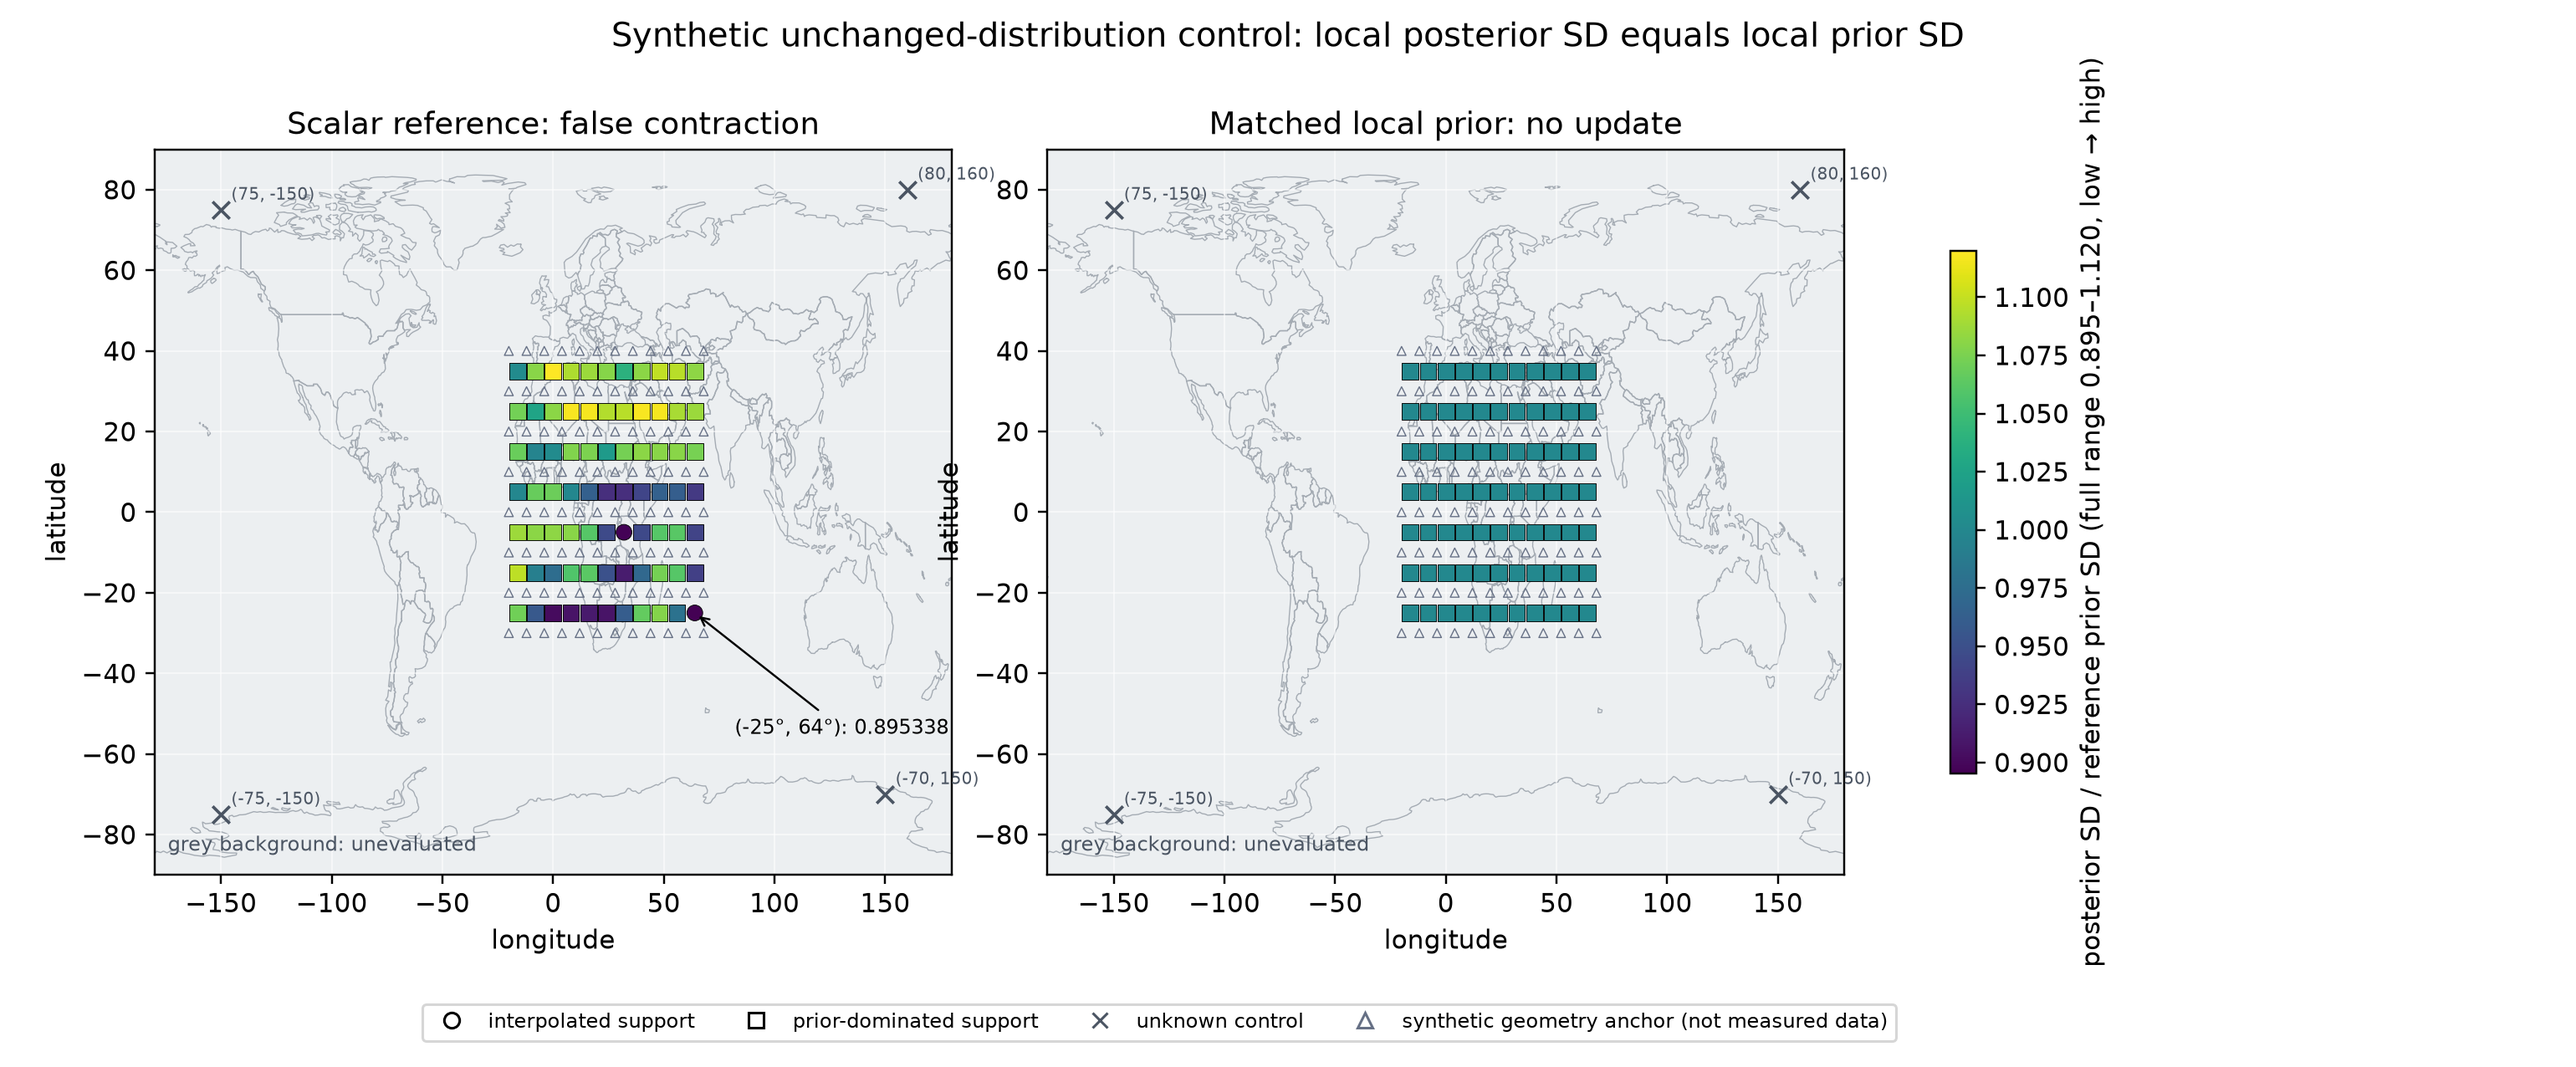
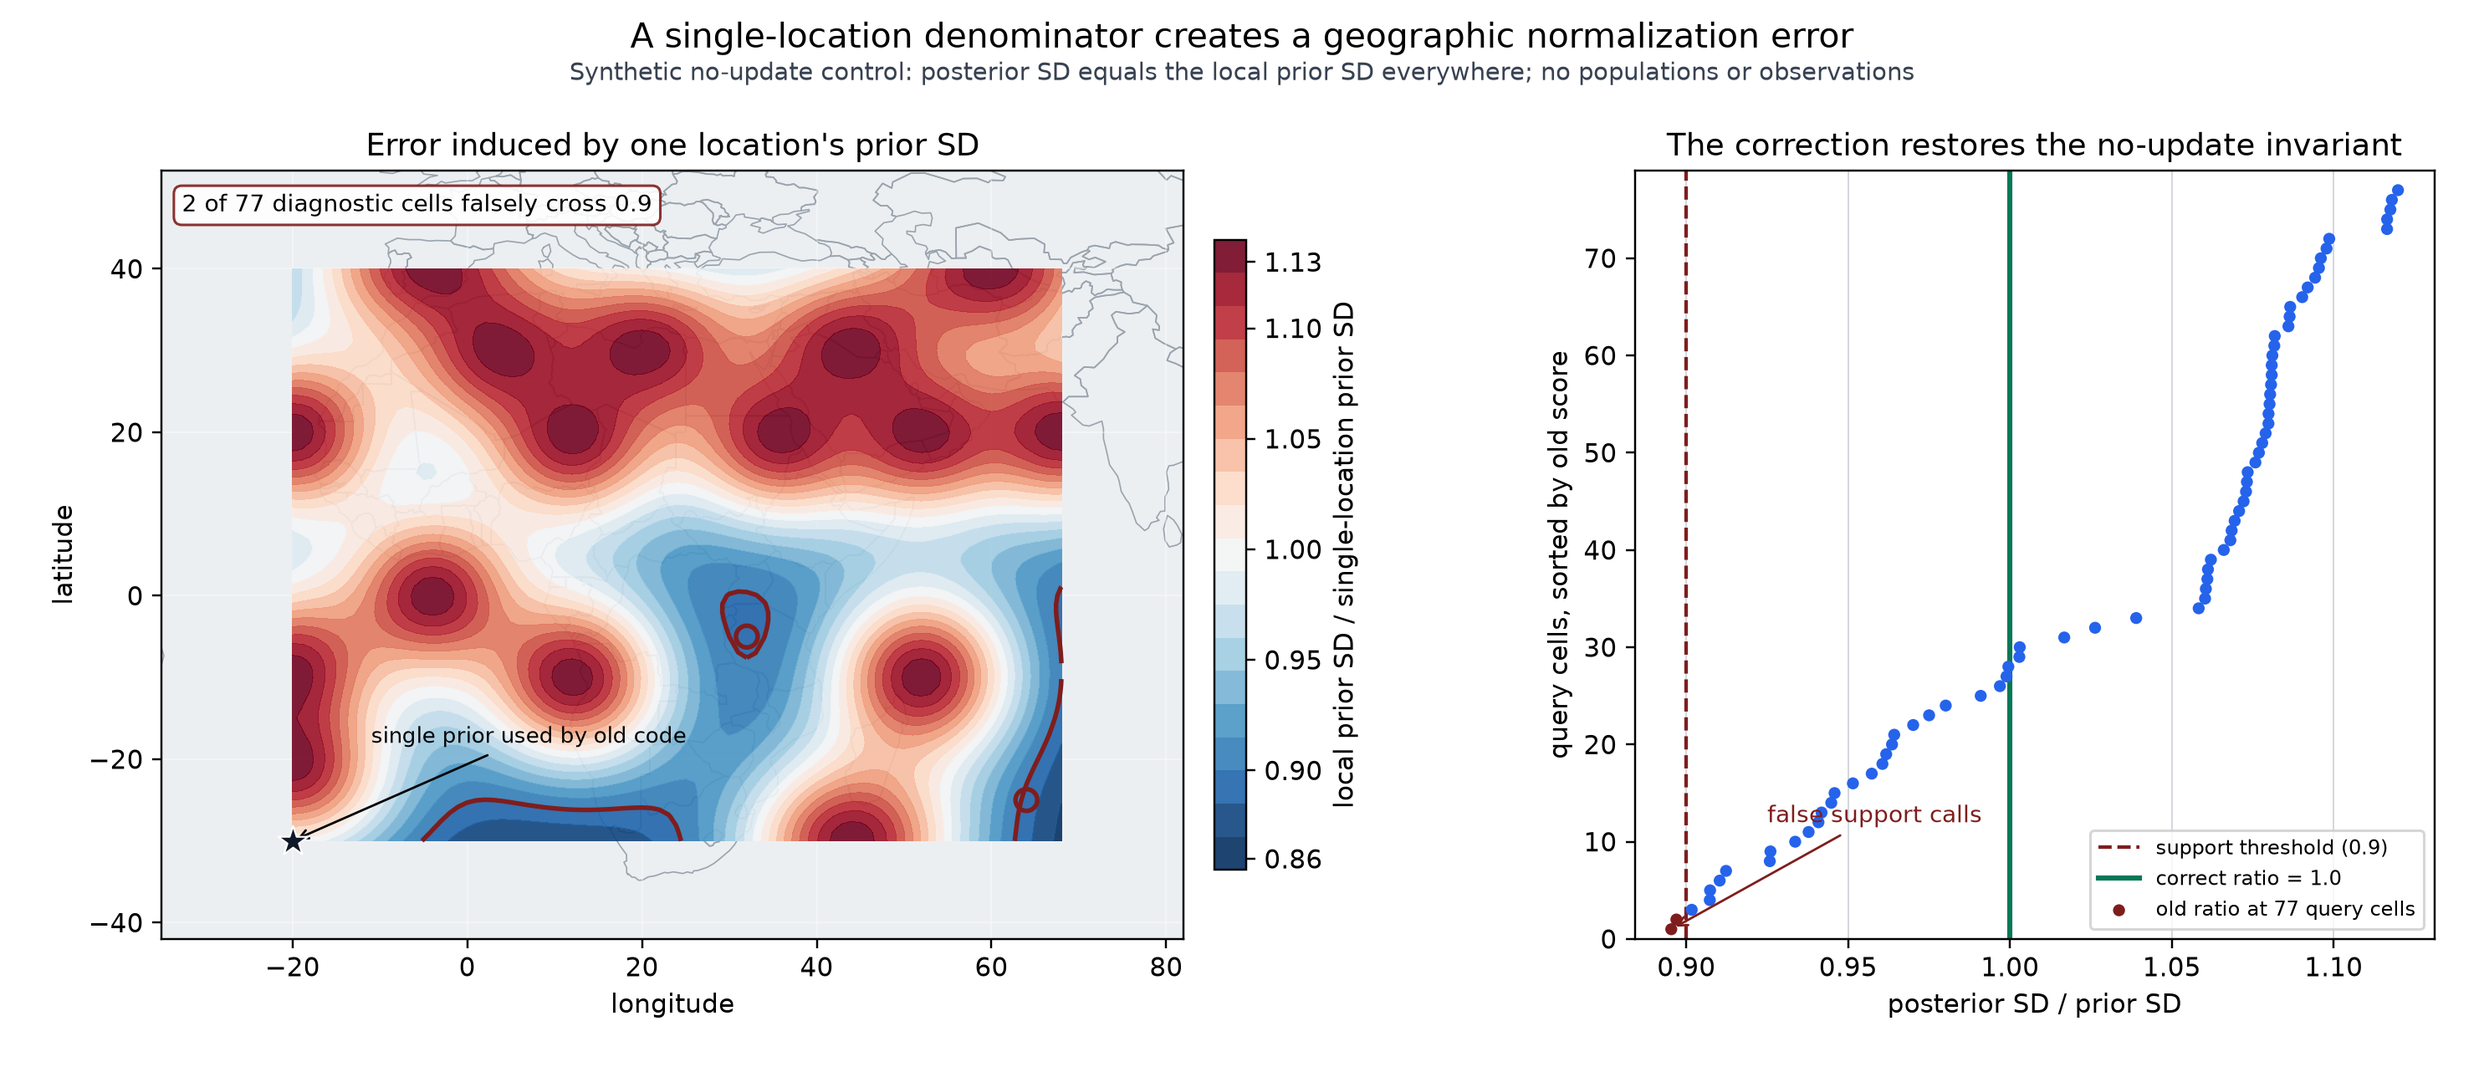
fix: clarify geographic normalization figure (closes #266)

diff --git a/scripts/plot_prior_normalization.py b/scripts/plot_prior_normalization.py
@@ -15,7 +15,7 @@ import matplotlib
 matplotlib.use("Agg")
 import matplotlib.pyplot as plt  # noqa: E402
 import numpy as np  # noqa: E402
-from matplotlib.lines import Line2D  # noqa: E402
+from matplotlib.colors import TwoSlopeNorm  # noqa: E402
 
 from genomeos.surfaces.fit import (  # noqa: E402
     EARTH_RADIUS_KM,
@@ -73,21 +73,23 @@ def _haversine_to_grid(
 
 def compute_counterexample() -> dict[str, np.ndarray | float]:
     """Return the fully authored fixed-geometry no-update counterexample from issue #266."""
-    anchor_lat = np.array(
-        [lat for lat in range(-30, 41, 10) for _ in range(-20, 69, 8)], dtype=float
+    anchor_lon_grid, anchor_lat_grid = np.meshgrid(
+        np.arange(-20.0, 69.0, 8.0), np.arange(-30.0, 41.0, 10.0)
     )
-    anchor_lon = np.array(
-        [lon for _ in range(-30, 41, 10) for lon in range(-20, 69, 8)], dtype=float
-    )
+    anchor_lat, anchor_lon = anchor_lat_grid.ravel(), anchor_lon_grid.ravel()
     inducing = h3_inducing_points(anchor_lat, anchor_lon, 16, reach_km=1500.0)
-    query_lat = np.array(
-        [lat for lat in range(-25, 36, 10) for _ in range(-16, 65, 8)], dtype=float
+    query_lon_grid, query_lat_grid = np.meshgrid(
+        np.arange(-16.0, 65.0, 8.0), np.arange(-25.0, 36.0, 10.0)
     )
-    query_lon = np.array(
-        [lon for _ in range(-25, 36, 10) for lon in range(-16, 65, 8)], dtype=float
-    )
+    query_lat, query_lon = query_lat_grid.ravel(), query_lon_grid.ravel()
     local_sd = _conditional_frequency_sd(inducing, query_lat, query_lon)
     scalar_sd = float(_conditional_frequency_sd(inducing, anchor_lat[:1], anchor_lon[:1])[0])
+    surface_lon, surface_lat = np.meshgrid(
+        np.linspace(-20.0, 68.0, 89), np.linspace(-30.0, 40.0, 71)
+    )
+    surface_ratio = _conditional_frequency_sd(
+        inducing, surface_lat.ravel(), surface_lon.ravel()
+    ).reshape(surface_lat.shape) / scalar_sd
     controls = np.array([[-75.0, -150.0], [-70.0, 150.0], [75.0, -150.0], [80.0, 160.0]])
     control_distance = _haversine_to_grid(
         controls[:, 0], controls[:, 1], anchor_lat, anchor_lon
@@ -101,6 +103,9 @@ def compute_counterexample() -> dict[str, np.ndarray | float]:
         "scalar_sd": scalar_sd,
         "scalar_ratio": local_sd / scalar_sd,
         "local_ratio": local_sd / local_sd,
+        "surface_lat": surface_lat,
+        "surface_lon": surface_lon,
+        "surface_ratio": surface_ratio,
         "controls": controls,
         "control_distance_km": control_distance,
         "control_unknown": control_distance > 2.0 * LENGTHSCALE_KM,
@@ -108,81 +113,94 @@ def compute_counterexample() -> dict[str, np.ndarray | float]:
 
 
 def render(out: Path) -> Path:
-    """Render the counterexample as two support maps with a shared low-to-high ratio ramp."""
+    """Map the spatial denominator error and summarize its classification effect."""
     result = compute_counterexample()
     query_lat = result["query_lat"]
     query_lon = result["query_lon"]
-    controls = result["controls"]
-    ratios = (result["scalar_ratio"], result["local_ratio"])
-    titles = ("Scalar reference: false contraction", "Matched local prior: no update")
-    fig, axes = plt.subplots(1, 2, figsize=(14, 5.8))
-    norm = plt.Normalize(
-        min(float(np.min(ratio)) for ratio in ratios),
-        max(float(np.max(ratio)) for ratio in ratios),
+    scalar_ratio = result["scalar_ratio"]
+    false_support = scalar_ratio < SUPPORT_THRESHOLD
+    fig, (map_ax, diagnostic_ax) = plt.subplots(
+        1, 2, figsize=(13.5, 5.8), gridspec_kw={"width_ratios": (1.55, 1.0)}
     )
-    for ax, ratio, title in zip(axes, ratios, titles, strict=True):
-        ax.set_facecolor("#eceff1")
-        draw_countries(ax, color="#a4abb3", linewidth=0.45)
-        prior_dominated = ratio >= SUPPORT_THRESHOLD
-        ax.scatter(
-            query_lon[~prior_dominated], query_lat[~prior_dominated], c=ratio[~prior_dominated],
-            cmap="viridis", norm=norm, s=38, marker="o", edgecolor="black", linewidth=0.3,
-            label="interpolated (<0.9)", zorder=3,
-        )
-        scatter = ax.scatter(
-            query_lon[prior_dominated], query_lat[prior_dominated], c=ratio[prior_dominated],
-            cmap="viridis", norm=norm, s=42, marker="s", edgecolor="black", linewidth=0.3,
-            label="prior dominated (≥0.9)", zorder=3,
-        )
-        ax.scatter(
-            result["anchor_lon"], result["anchor_lat"], marker="^", s=12,
-            facecolor="none", edgecolor="#667085", linewidth=0.45, zorder=2,
-        )
-        ax.scatter(
-            controls[:, 1], controls[:, 0], marker="x", s=45, color="#4b5563",
-            linewidth=1.2, label="unknown (>2ρ)", zorder=4,
-        )
-        for control_lat, control_lon in controls:
-            ax.annotate(
-                f"({control_lat:.0f}, {control_lon:.0f})",
-                (control_lon, control_lat),
-                xytext=(4, 4),
-                textcoords="offset points",
-                fontsize=6.5,
-                color="#4b5563",
-            )
-        ax.set(xlim=(-180, 180), ylim=(-90, 90), xlabel="longitude", ylabel="latitude", title=title)
-        ax.text(-174, -84, "grey background: unevaluated", fontsize=8, color="#4b5563")
-        ax.grid(color="white", linewidth=0.5, alpha=0.7)
-    target = (query_lat == -25) & (query_lon == 64)
-    axes[0].annotate(
-        f"(-25°, 64°): {result['scalar_ratio'][target].item():.6f}",
-        xy=(64, -25), xytext=(82, -55), arrowprops={"arrowstyle": "->", "lw": 0.8}, fontsize=8,
+    norm = TwoSlopeNorm(
+        vmin=float(np.min(result["surface_ratio"])),
+        vcenter=1.0,
+        vmax=float(np.max(result["surface_ratio"])),
     )
-    legend = [
-        Line2D([], [], marker="o", linestyle="none", color="black", markerfacecolor="white",
-               label="interpolated support"),
-        Line2D([], [], marker="s", linestyle="none", color="black", markerfacecolor="white",
-               label="prior-dominated support"),
-        Line2D([], [], marker="x", linestyle="none", color="#4b5563", label="unknown control"),
-        Line2D([], [], marker="^", linestyle="none", color="#667085", markerfacecolor="none",
-               label="synthetic geometry anchor (not measured data)"),
-    ]
-    fig.legend(handles=legend, loc="lower center", bbox_to_anchor=(0.45, 0.015), ncol=4, fontsize=8)
+    map_ax.set_facecolor("#eceff1")
+    draw_countries(map_ax, color="#9aa4af", linewidth=0.55)
+    surface = map_ax.contourf(
+        result["surface_lon"], result["surface_lat"], result["surface_ratio"],
+        levels=24, cmap="RdBu_r", norm=norm, alpha=0.9, zorder=2,
+    )
+    map_ax.contour(
+        result["surface_lon"], result["surface_lat"], result["surface_ratio"],
+        levels=[SUPPORT_THRESHOLD], colors="#7f1d1d", linewidths=1.8, zorder=3,
+    )
+    map_ax.scatter(
+        query_lon[false_support], query_lat[false_support], s=72, facecolor="none",
+        edgecolor="#7f1d1d", linewidth=1.8, zorder=4,
+    )
+    reference_lat = float(result["anchor_lat"][0])
+    reference_lon = float(result["anchor_lon"][0])
+    map_ax.scatter(
+        [reference_lon], [reference_lat], marker="*", s=150, facecolor="#111827",
+        edgecolor="white", linewidth=0.7, zorder=5,
+    )
+    map_ax.annotate(
+        "single prior used by old code",
+        (reference_lon, reference_lat), xytext=(reference_lon + 9, reference_lat + 12),
+        arrowprops={"arrowstyle": "->", "lw": 0.9}, fontsize=8.5,
+    )
+    map_ax.text(
+        0.02, 0.97,
+        f"{int(false_support.sum())} of {len(query_lat)} diagnostic cells falsely cross 0.9",
+        transform=map_ax.transAxes, va="top", fontsize=9,
+        bbox={"boxstyle": "round,pad=0.35", "facecolor": "white", "alpha": 0.9, "edgecolor": "#7f1d1d"},
+    )
+    map_ax.set(
+        xlim=(-35, 82), ylim=(-42, 52), xlabel="longitude", ylabel="latitude",
+        title="Error induced by one location's prior SD",
+    )
+    map_ax.grid(color="white", linewidth=0.5, alpha=0.45)
+    colorbar = fig.colorbar(surface, ax=map_ax, shrink=0.82, pad=0.025)
+    colorbar.set_label("local prior SD / single-location prior SD")
+    colorbar.set_ticks([0.86, 0.9, 0.95, 1.0, 1.05, 1.1, 1.13])
+
+    order = np.argsort(scalar_ratio)
+    ranked = scalar_ratio[order]
+    ranks = np.arange(1, len(ranked) + 1)
+    diagnostic_ax.axvline(
+        SUPPORT_THRESHOLD, color="#7f1d1d", linestyle="--", linewidth=1.4,
+        label="support threshold (0.9)",
+    )
+    diagnostic_ax.axvline(1.0, color="#047857", linewidth=2.0, label="correct ratio = 1.0")
+    diagnostic_ax.scatter(
+        ranked, ranks, c=np.where(ranked < SUPPORT_THRESHOLD, "#7f1d1d", "#2563eb"),
+        s=22, linewidth=0, label="old ratio at 77 query cells", zorder=3,
+    )
+    diagnostic_ax.annotate(
+        "false support calls", xy=(ranked[0], 1), xytext=(0.925, 12),
+        arrowprops={"arrowstyle": "->", "lw": 0.9, "color": "#7f1d1d"},
+        color="#7f1d1d", fontsize=9,
+    )
+    diagnostic_ax.set(
+        xlabel="posterior SD / prior SD", ylabel="query cells, sorted by old score",
+        ylim=(0, len(ranked) + 2), title="The correction restores the no-update invariant",
+    )
+    diagnostic_ax.legend(loc="lower right", fontsize=8, frameon=True)
+    diagnostic_ax.grid(axis="x", color="#d1d5db", linewidth=0.6)
     fig.suptitle(
-        "Synthetic unchanged-distribution control: local posterior SD equals local prior SD",
-        fontsize=13,
+        "A single-location denominator creates a geographic normalization error",
+        fontsize=13.5,
     )
-    fig.subplots_adjust(left=0.06, right=0.88, bottom=0.18, top=0.86, wspace=0.12)
-    fig.colorbar(
-        scatter,
-        ax=axes,
-        shrink=0.72,
-        label=(
-            "posterior SD / reference prior SD "
-            f"(full range {norm.vmin:.3f}–{norm.vmax:.3f}, low → high)"
-        ),
+    fig.text(
+        0.5, 0.925,
+        "Synthetic no-update control: posterior SD equals the local prior SD everywhere; "
+        "no populations or observations",
+        ha="center", fontsize=9.5, color="#374151",
     )
+    fig.subplots_adjust(left=0.065, right=0.98, bottom=0.12, top=0.84, wspace=0.23)
     out = Path(out)
     out.parent.mkdir(parents=True, exist_ok=True)
     fig.savefig(out, dpi=220)

diff --git a/tests/test_plot_prior_normalization.py b/tests/test_plot_prior_normalization.py
@@ -13,6 +13,8 @@ def test_conditional_counterexample_matches_the_authored_numeric_control():
     assert result["scalar_ratio"][target].item() == pytest.approx(0.8953380210217113, abs=1e-14)
     assert result["local_ratio"][target].item() == 1.0
     assert len(result["query_lat"]) == 77
+    assert int((result["scalar_ratio"] < 0.9).sum()) == 2
+    assert result["surface_ratio"].shape == (71, 89)
     assert result["control_unknown"].tolist() == [True, True, True, True]
 
 

diff --git a/docs/research/pointwise-prior-contraction-2026-09-11.md b/docs/research/pointwise-prior-contraction-2026-09-11.md
@@ -18,7 +18,10 @@ quadrature calculate the approximate prior frequency SD at 77 midpoint queries. 
 posterior SD is set equal to each query's local prior SD. At `(-25, 64)`, the unchanged local
 distribution has ratio 1.0 with the matched denominator but about 0.895338 with the old scalar
 reference, which crosses the 0.9 support threshold. Four distant controls remain `unknown` by the
-unchanged distance rule. Grey background is unevaluated.
+unchanged distance rule. The map shows the resulting spatial normalization error, the old
+single-location reference, and the two diagnostic query cells that cross the threshold. The ranked
+panel shows the old ratios for all 77 cells against the correct no-update ratio of 1.0. The dense
+map is evaluated only over the authored geometry; grey background is unevaluated.
 
 The production interface samples the retained PyMC model's existing `freq_pred` node at requested
 coordinates. This includes the model's actual hyperpriors and HSGP or inducing geometry. The
